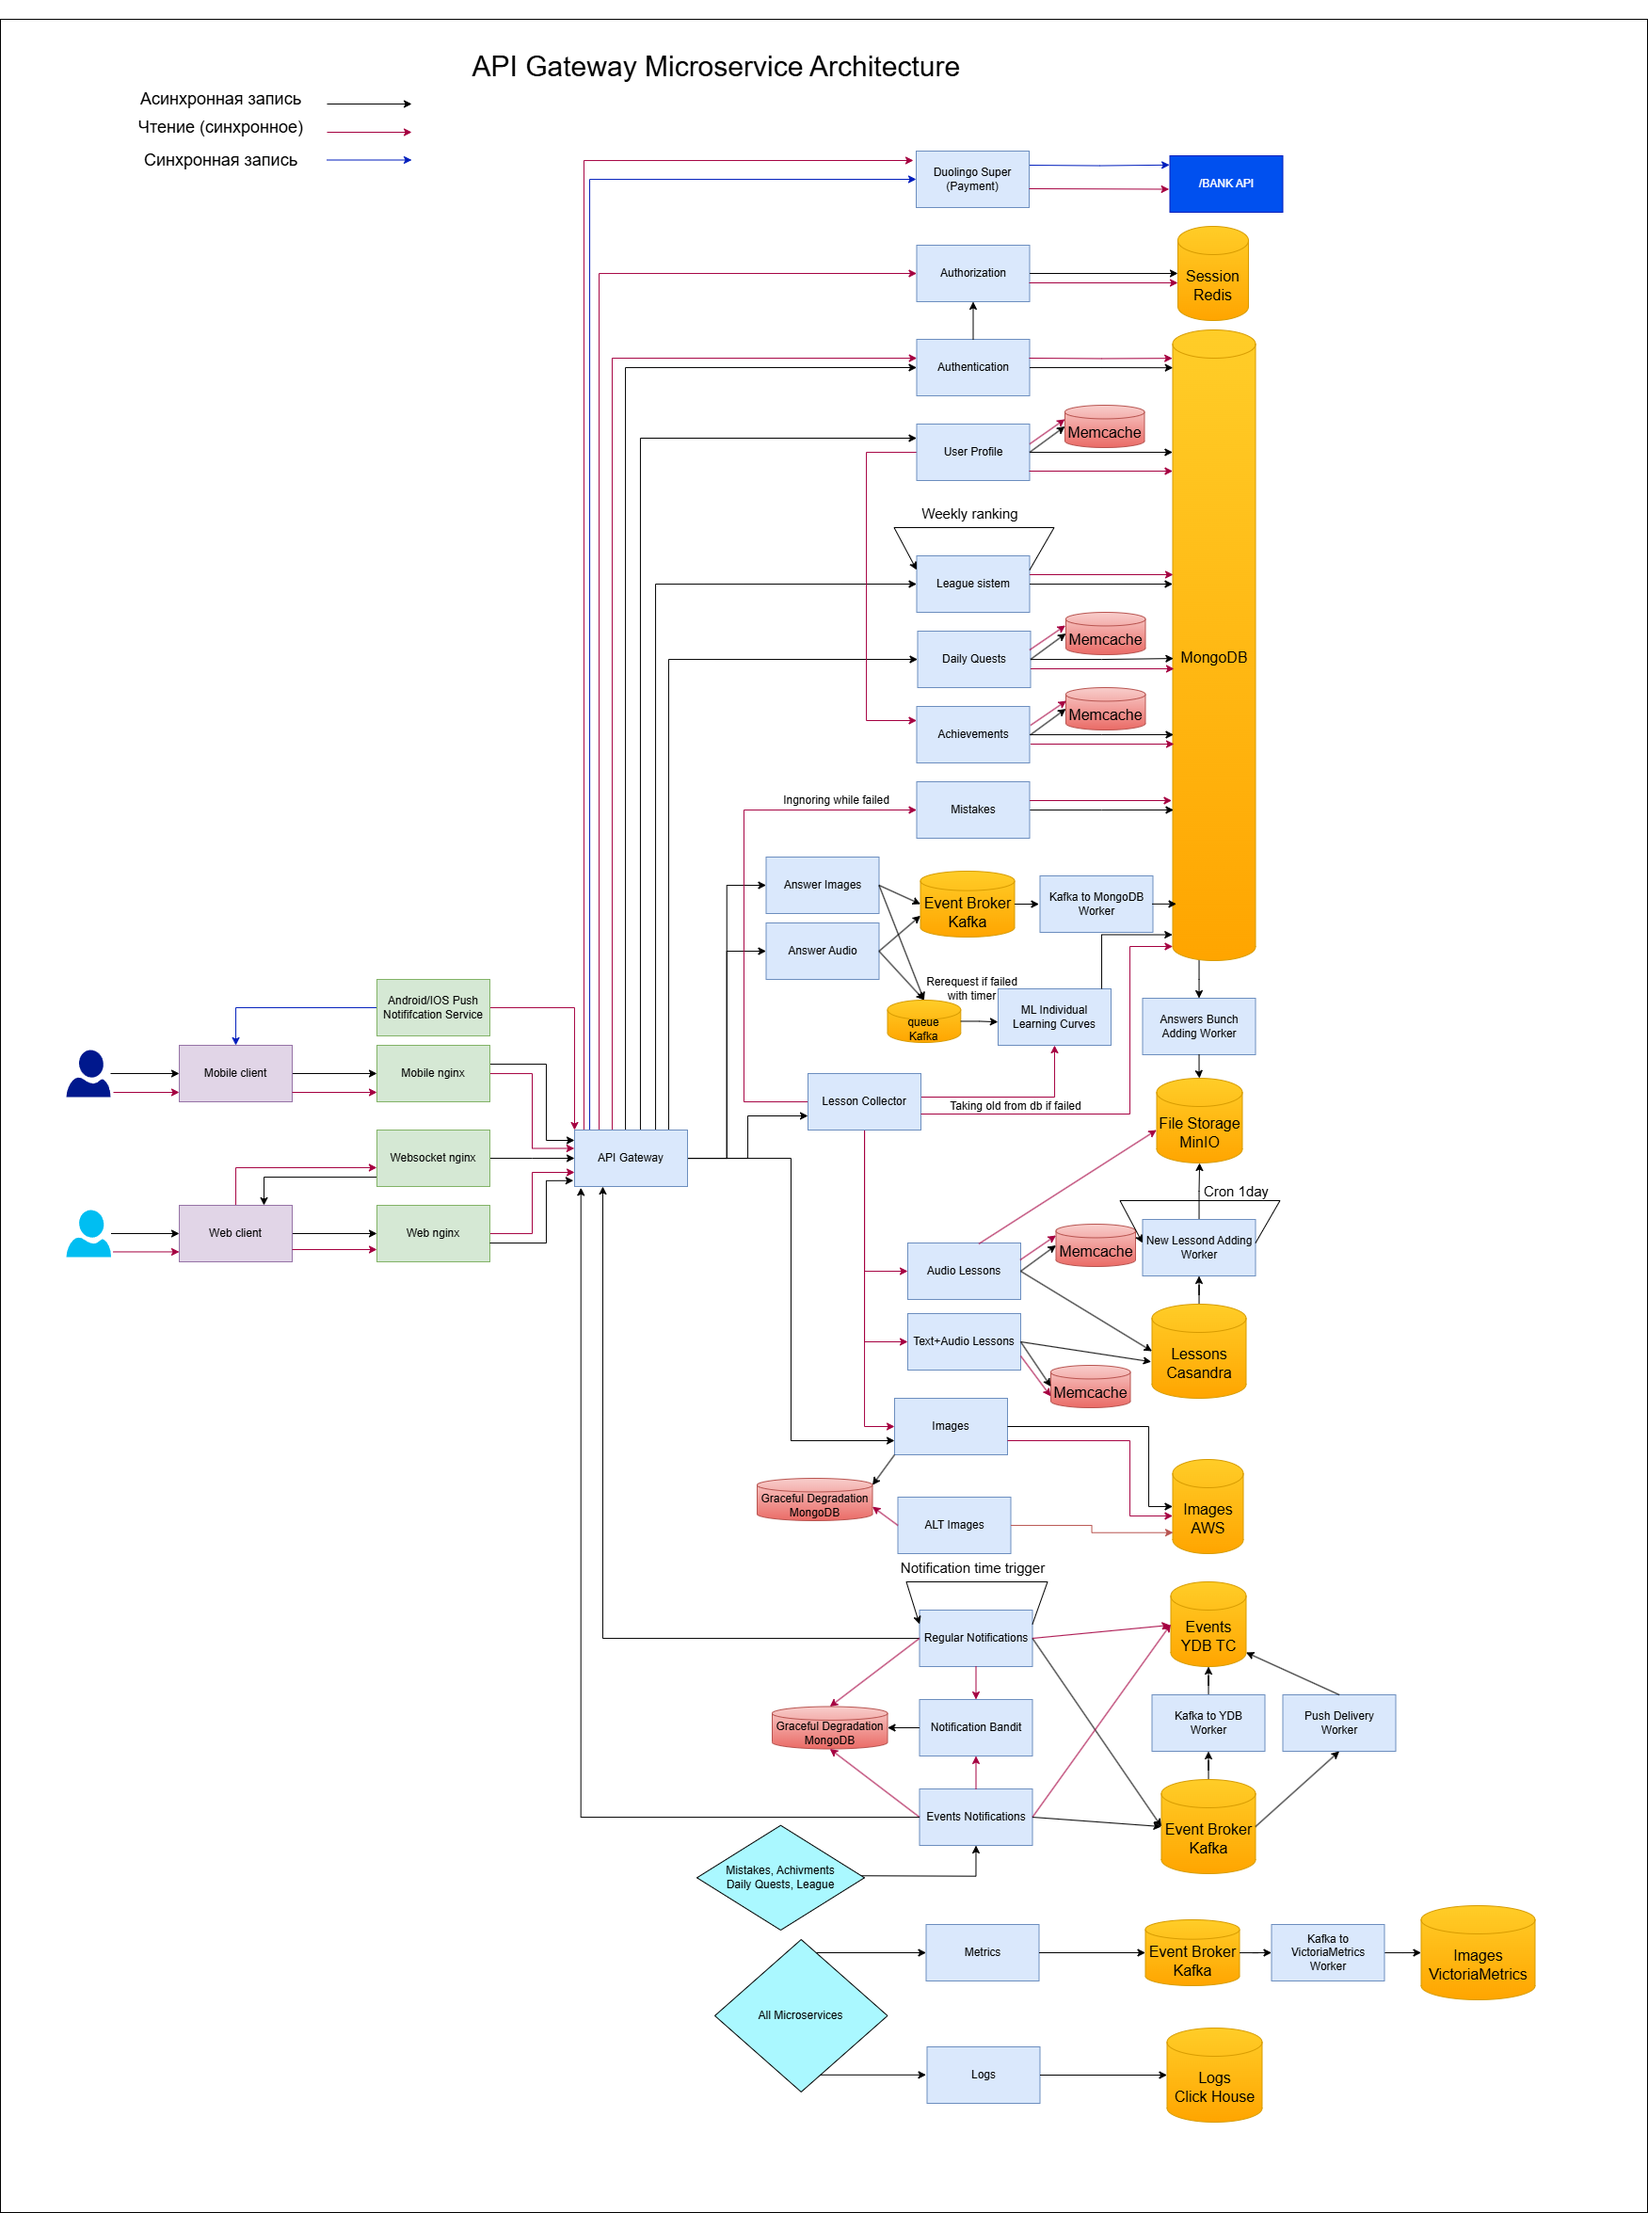
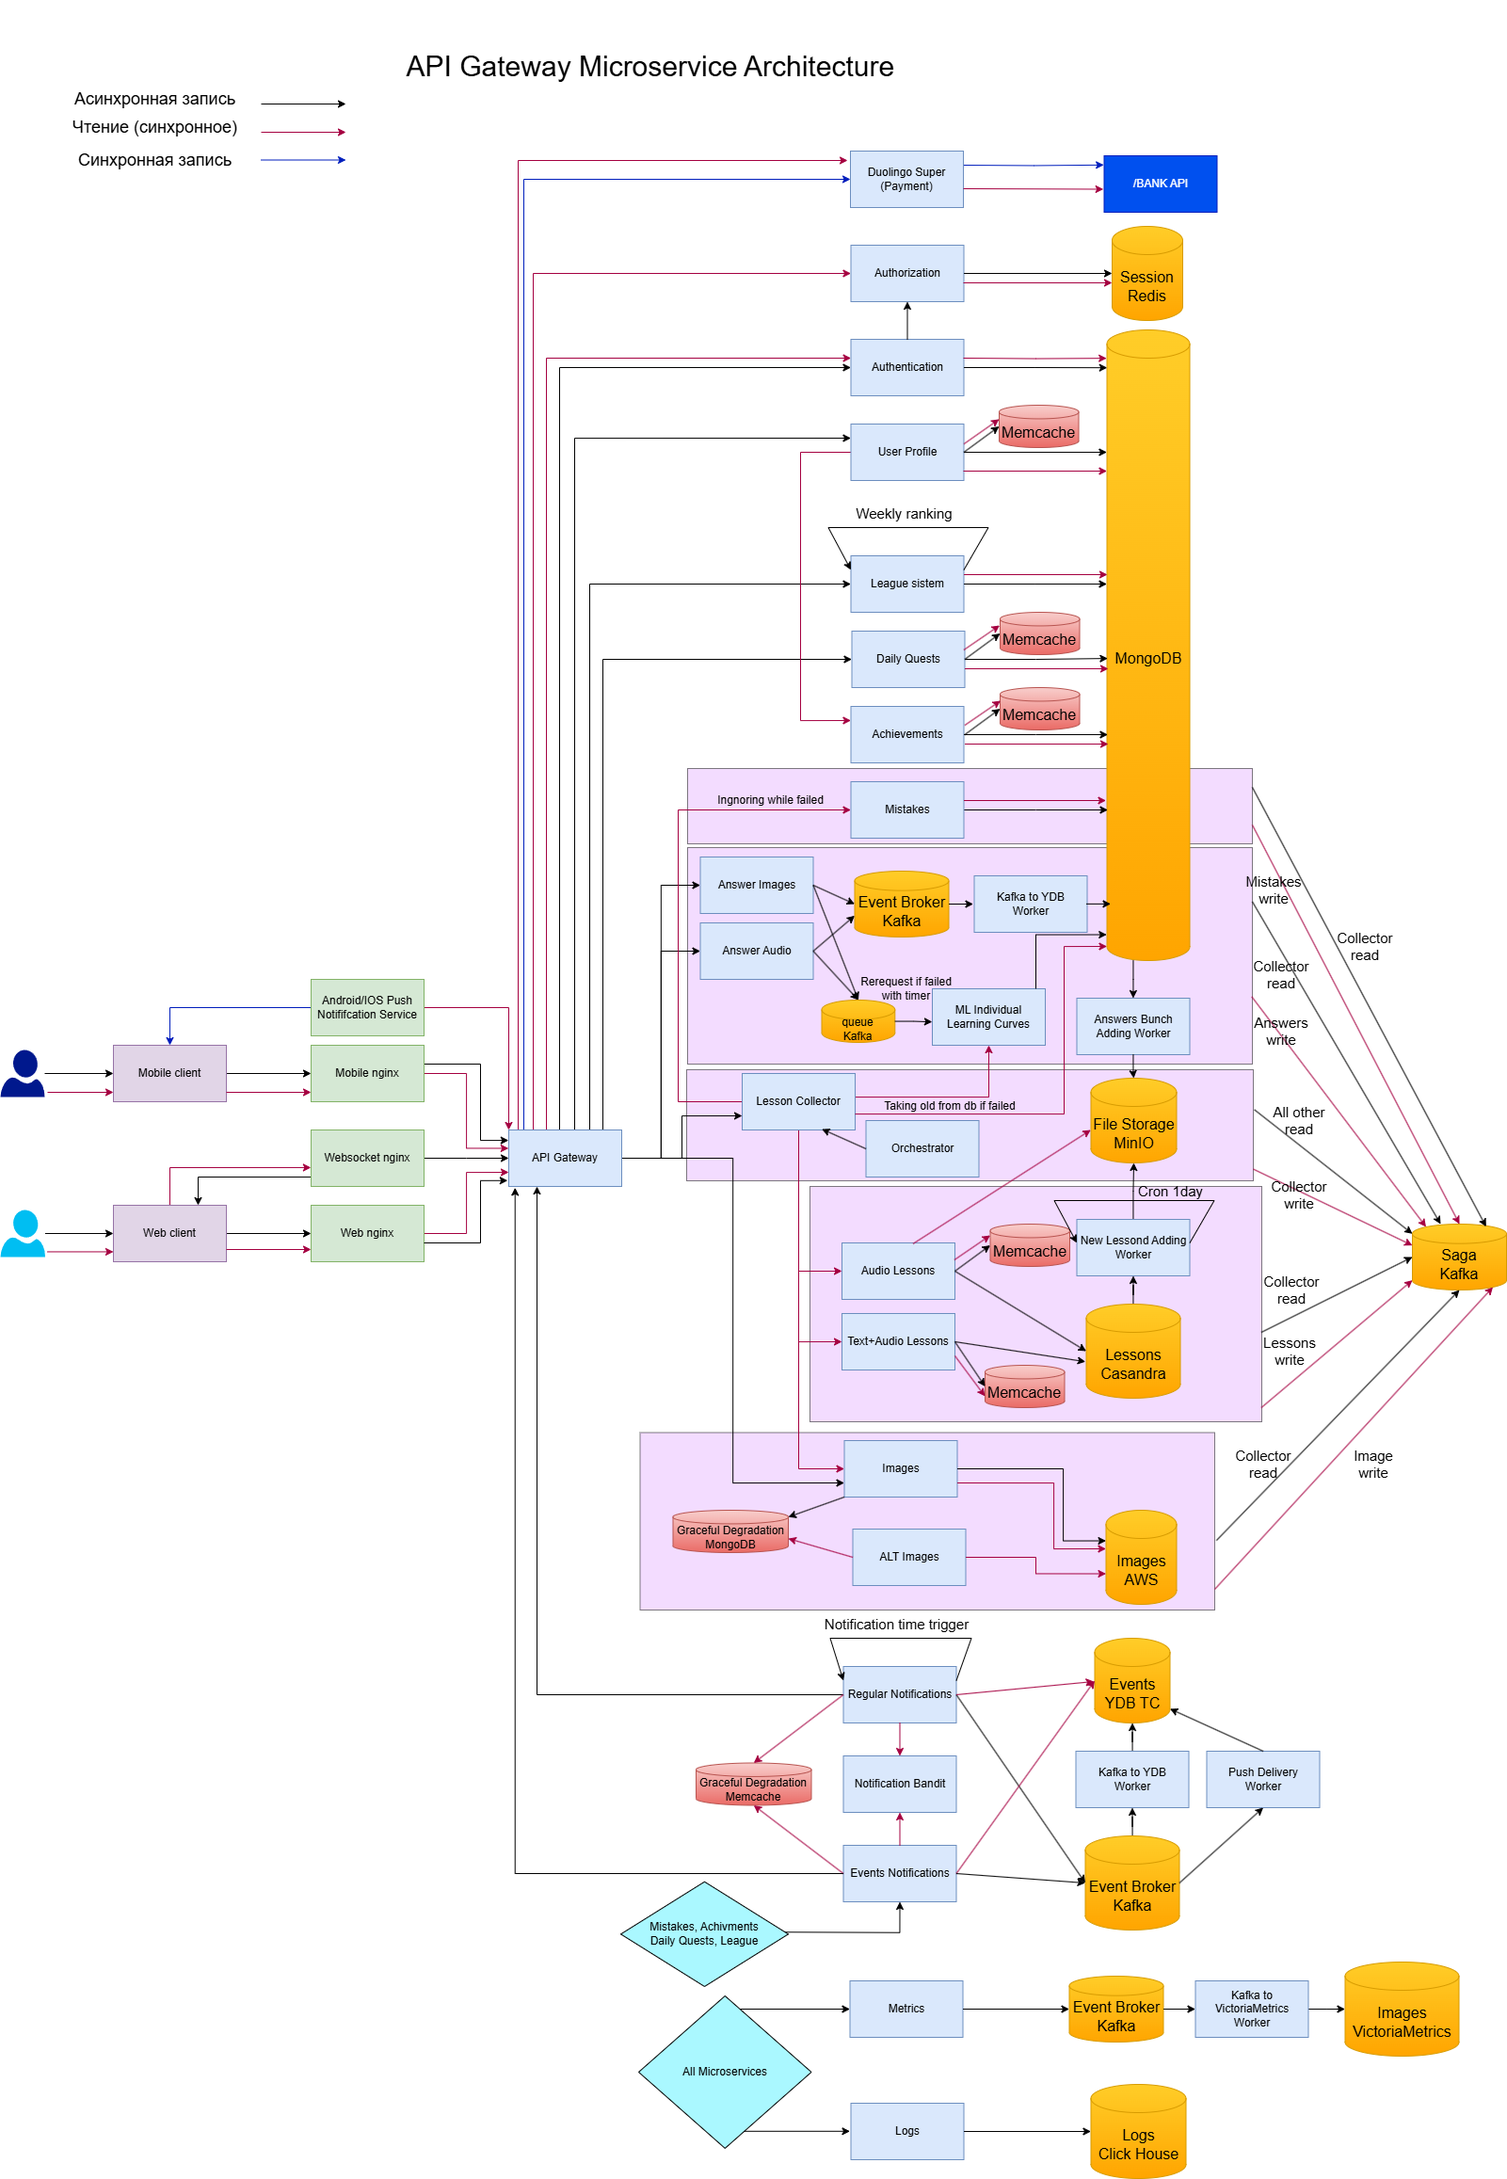
scheme orchestrator

diff --git a/README.md b/README.md
@@ -583,14 +583,17 @@ MongoDB-клиенты используют пулы соединений для
 | Content Delivery Network | Резервирование серверов, геораспределённые POP-узлы, DNS балансировка, кэширование    | Резервные серверы - включаются при сбое основных<br>POP-узлы - ближние точки присутствия<br>DNS балансировка - распределение по IP<br>кэширование - отдача контента без запроса к источнику |
 | Общая структура | Сегментирование, резервирование    | Сегментирование API - разделяем и группируем простые и посещаемые; сложные но важные;прочие<br>Резервируем ресурсы - CPU, RAM, диски, ДЦ, у всего есть процент отказа на больших числах обыденная вещь |
 
-Несколько сценариев **graceful degradation:**
+### Несколько сценариев **graceful degradation:**
 
 1. ML Individual Learning Curves - отдельный микросервис выполняющий трудоемкую работу на основе ML. ML модели часто меняются обновляются и откатываются, а небольшая задержка в повышении уровня языкового знания пользователя будет не очень критична, если со временем это исправится, исправлять планируется с помощью промежуточной базы данных, которая перезаправшивает все запросы при восстановлении работы ML Individual Learning Curves. Микросервис Lesson Collector при падении Individual Learning Curves будет брать данные об уровне пользователя сохранненые в БД.
 2. Mistakes - самостоятельный микросевис активно участвующий в каждом формировании урока, однако может отказать - но если в некоторых уроках не будет отработки ошибок пользователя это заденет гораздо меньше, чем если у него перестанут грузиться все уроки, поэтому при его падении Lesson Collector формирует полностью урок из новой информации не получив заданий на отработку ошибок из Mistakes.
 3. Notification Bandit - микросервис выполняющий сложеный ML анализ, однако если он откажет лучше обратиться к проверенным текстам уведомлений хранимых в отдельной БД чем не присылать уведомления вовсе, поэтому задействуется Graceful Degradation MongoDB в которое Notification Bandit пишет во время работы последний актуальные тексты уведомлений, а когда Notification Bandit падает из этой БД читают Notifications микросервисы.
 4. Images - важный микросервис формирующий актулальные интересные пользователям изображения, для того чтобы картинки всегда были в нашем приложении используется сценарий graceful degradation с помощью сценария с использованием микрсоервиса ALT Images. Так как изображения формируются на основе векторов содержащих комбинации большого базовых изображений, формируя их на основе пользовательской статистики, Images пока работает пишет эти вектора Graceful Degradation DB. А когда Images падает, на основе векторов из Graceful Degradation MongoDB микросервис ALT Images понимает последнюю тенденцию и разбавляет старые вектора новыми пусть и менее каченственными.
 
-**Синхронизация** происходит через промежуточные базы Kafka по принципу **outbox**
+### **Синхронизация**
+
+Происходит c применением паттерна Saga в реализации с оркестратором. Очередь сообщений храниться в Kafka. Orchestrator инкапсулирует в себе всю логику управления процессом сборки уроков. В то время как Lesson collector инкапсулирует бизнес логику сборки.
+Оркестарот отправляет в Kafka записи о том, что миркросевисам Lessons нужно вернуть уроки, они после возвращения записывают в Kafka событие о том что они вернули уроки, оркестарор его читает, и записывает новое событие для микросервиса Images, который также после выполнения работы записывает это событие в Kafka, из которого его читает оркестратор, и далее тоже самое с микросервисами Answers и Mistakes.
 
 ## 10. Схема проекта
 
